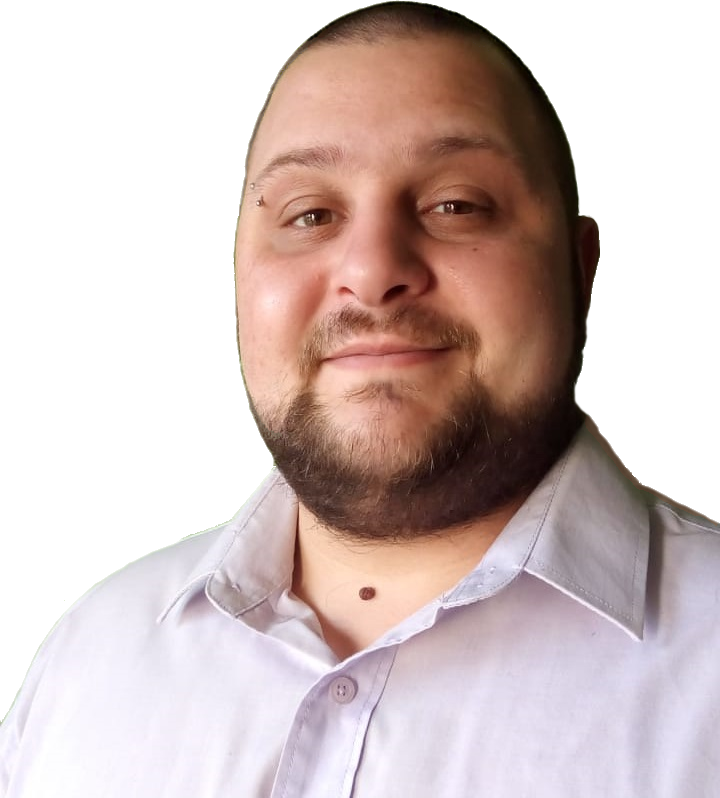
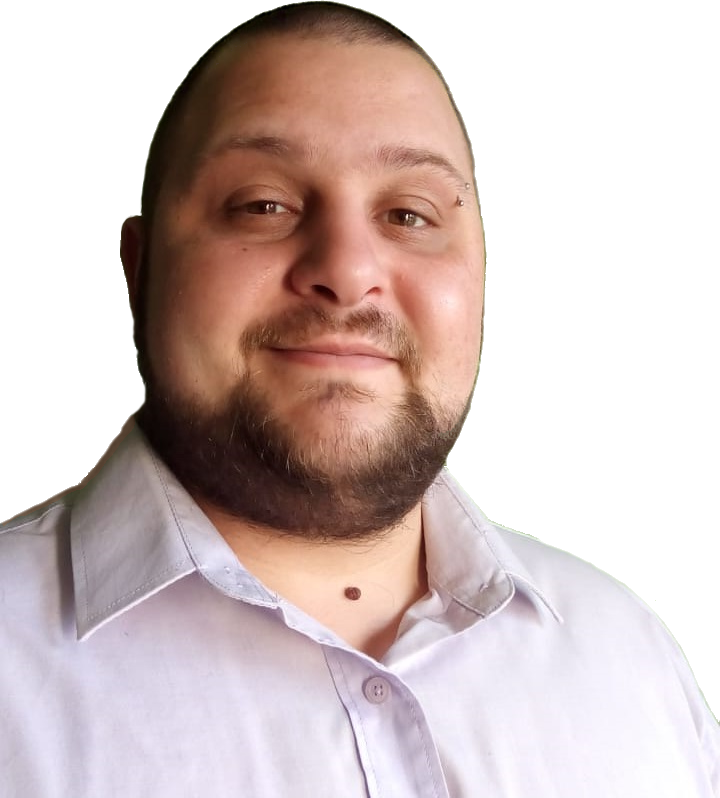
d

diff --git a/index.html b/index.html
@@ -13,7 +13,7 @@
 
 </head>
 
-<body class="body" onscroll="whenScroll()">
+<body class="body" onscroll="whenScroll(), translateWhenScroll()">
 
     <script src="https://cdnjs.cloudflare.com/ajax/libs/gsap/3.11.1/gsap.min.js"
     integrity="sha512-Mf/xUqfWvDIr+1B6zfnIDIiG7XHzyP/guXUWgV6PgaQoIFeXkJQR5XWh9fqAiCiRCpemabt3naV4jhDWVnuYDQ=="
@@ -76,7 +76,7 @@
                     <div class="acerca-left">
                         <div class="foto">
                             <img class="foto-circulo"
-                                src="https://raw.githubusercontent.com/rosteigen/PortfolioFrontEnd/master/Imgs/perfil3.png">
+                                src="https://raw.githubusercontent.com/rosteigen/PortfolioFrontEnd/master/Imgs/perfil2.png">
 
                         </div>
                     </div>
@@ -103,7 +103,7 @@
             
             <div id="skills" class="skills">
                 <div class="titulo-skills">
-                    <p>Hard & Soft Skills</p>
+                    <p id="titulo-skills">Hard & Soft Skills</p>
                 </div>
                 <div class="imgs-skills">
                     <div class="imgs-skills1">

diff --git a/scripts.js b/scripts.js
@@ -23,16 +23,12 @@ function whenScroll() {
                 titulos[i].style.color = "white";
         }
     }
-
-    if (document.documentElement.scrollTop >= 900) {
-        
-        document.getElementById("titulo-exp").style.animation = "slide-left";
-        document.getElementById("titulo-exp").style.animationDuration = "1s";
-        
-            
-    }
-
-
 }
 
+function translateWhenScroll(){
 
+    if (document.documentElement.scrollTop >= 100){
+        
+        
+    }
+}

diff --git a/styles.css b/styles.css
@@ -213,7 +213,10 @@ div {
 
 .foto-circulo {
     height: 500px;
+    border: 4px solid rgb(180, 178, 178);
+    
 }
+
 
 .titulo,
 .titulo p {
